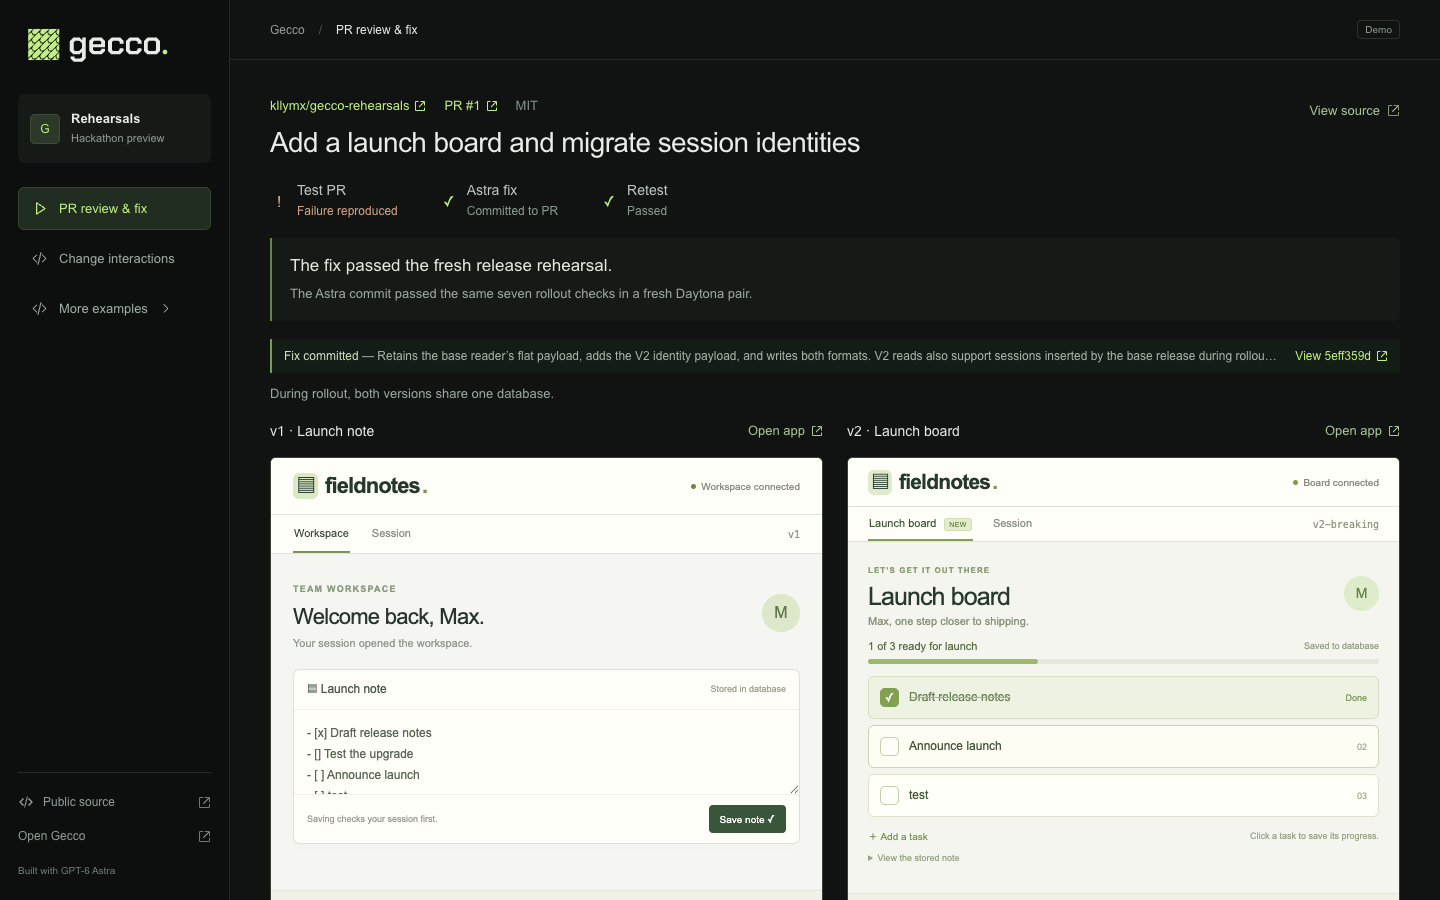
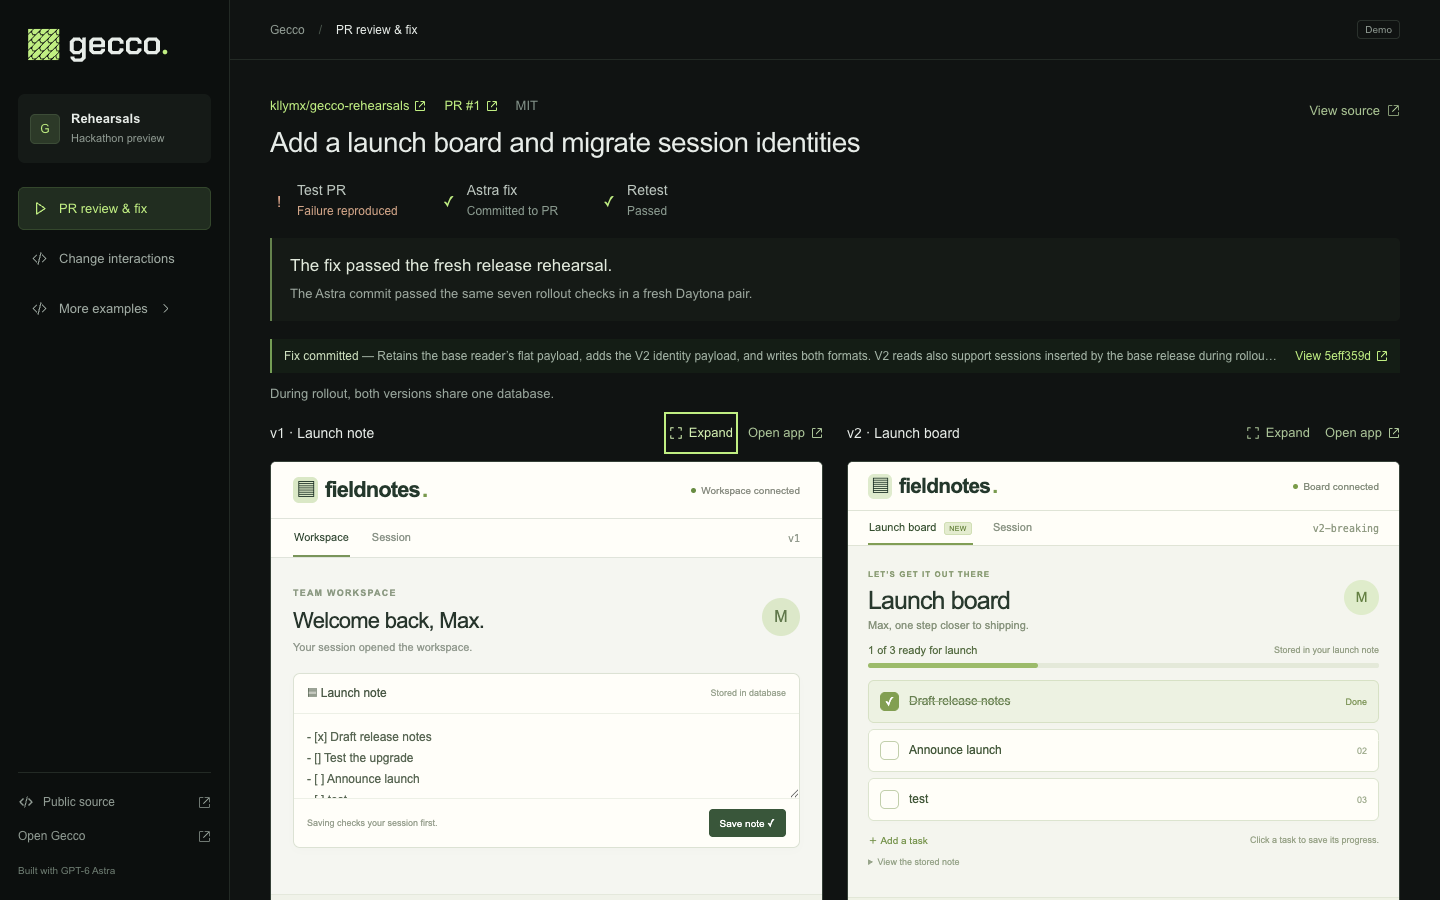
Prepare the one-minute hackathon walkthrough and document expanded previews

diff --git a/docs/HACKATHON-VIDEO.md b/docs/HACKATHON-VIDEO.md
@@ -1,0 +1,62 @@
+# One-minute Gecco hackathon video
+
+**Positioning: a feature can work alone and still break a release. Gecco reproduces that failure, gives Astra the evidence to repair it, and executes the exact fix again.**
+
+The visual is two real apps, but the distinctive capability is testing the transition between versions: an old reader and a new writer sharing migrated data during deployment. Astra turns the observed failure into a compatibility patch across the application and migrations. Independent execution determines whether that patch works.
+
+## Read this aloud — approximately 60 seconds
+
+> A new feature can pass its tests and still break a release. Gecco shows you why.
+>
+> This public pull request turns a launch note into an interactive board. Both versions work alone.
+>
+> But during deployment, old and new code share a database. This recorded original run shows the board working while existing users lose access.
+>
+> Astra gets the exact source and real failure. It reasons across the old reader, new writer, and migration, then generates a compatibility fix. Gecco validates it and commits it to the same public PR.
+>
+> That exact commit passed fifteen PostgreSQL checks, including rollback, then all seven checks in fresh Daytona sandboxes.
+>
+> These repaired apps are live. Tick a task here, and the old app reads the change.
+>
+> A public change, a reproduced failure, an Astra repair, and verified execution. The hackathon work is open source.
+
+## Screen choreography
+
+| Time | What to show |
+| --- | --- |
+| 0–8 seconds | The live demo with its public repo/PR links and completed three-step sequence visible. Say the opening sentence and point out the note → board change. |
+| 8–23 seconds | Switch to the **recorded original failure image**. Point at the working board and the old app's “Your workspace is out of reach.” Say “recorded original run.” |
+| 23–37 seconds | Switch to **Astra's commit** on the same public PR. Briefly show that the reader/writer and migrations changed. Keep the explanation about compatibility, not SQL syntax. |
+| 37–48 seconds | Return to the live demo. Point at “Committed to PR” and “Retest Passed.” Mention 15 native checks and seven fresh Daytona checks. |
+| 48–60 seconds | Toggle **Announce launch** in the board. Leave the old note editor unfocused; its normal polling shows the stored change. End with the public repo link visible. |
+
+Use just three tabs. Open them before recording:
+
+1. [Live demo](https://maxs-mac-mini.tail94229b.ts.net:10000/) — requires tailnet access.
+2. [Recorded original failure image](https://raw.githubusercontent.com/kllymx/gecco-rehearsals/main/docs/images/pr-1-original-failure.png).
+3. [Astra's exact repair commit](https://github.com/kllymx/gecco-rehearsals/commit/5eff359d6f0a5fac3d1d814d286539ffb29a1bb8).
+
+For this recording, use the completed run and its live repaired apps. Provisioning and generation took longer than one minute. PR #1 now contains the repair; running it again tests the repaired head. Keep the existing pair running. It is scheduled to expire at **5:49 p.m. New York time on September 10**.
+
+Expand is useful if the app or code is hard to read. For the final checkbox demonstration, keep the apps side by side so the persisted change is obvious. Save any unfinished note draft before refreshing the console to load the new Expand control. Expanding/restoring itself keeps the same iframe mounted.
+
+## What this demonstrates about Astra
+
+- It receives the actual old contract, proposed code and observed error, rather than a supplied compatible solution.
+- It produces a real three-file repair that preserves the new UI while restoring compatibility with old readers and retained data.
+- The orchestrator validates and publishes that patch, then creates fresh sandboxes at the exact commit. The model's explanation cannot set the pass result.
+
+Say “Gecco orchestrates; Astra reasons and writes the repair.” This example uses a fixed execution journey; Astra did not design the tests, drive the browser or provision the infrastructure. The current implementation supports the public Fieldnotes sample, not arbitrary repositories. The seven cloud checks cover rollout; the separate native validator also exercises rollback.
+
+Avoid claims that another review tool missed this deliberate example, or that passing these checks proves every deployment safe. The useful claim is concrete: **both versions passed alone; deployment broke old users; Astra's repair passed the same scenario.**
+
+## If asked about evidence or CI
+
+- [Public PR #1](https://github.com/kllymx/gecco-rehearsals/pull/1) remains open and unmerged.
+- [Complete live run evidence](evidence/pr-1-astra-repair-proof.json).
+- [Recorded live interaction](evidence/pr-1-repaired-interaction-proof.json).
+- [Independent GitHub validation of the exact repair](https://github.com/kllymx/gecco-rehearsals/actions/runs/34529977675) passed both TypeScript configurations and 15 native checks.
+
+The earlier generic PR CI retains a fixture-wiring failure: it combined a repaired reader with the bundled destructive migration. Main's fixture tests were corrected, and the separate exact-source check passed without changing Astra's commit. This is documented in the PR; do not claim those original failed CI runs became green.
+
+If live interaction is unavailable, use the [recorded verified view](images/pr-review-console.png), label it as recorded, and say “The recorded rerun verifies that both versions retain access after the repair.” Do not start a new provisioning cycle mid-take.

diff --git a/README.md b/README.md
@@ -9,6 +9,8 @@ Built as a public hackathon extension on September 10, 2026. This is a standalon
 of the Rehearsals concept, separate from the pre-existing private Gecco code-review application.
 The code in this repository is new hackathon work.
 
+[One-minute hackathon video script and screen sequence](docs/HACKATHON-VIDEO.md).
+
 ## Public PR review and repair
 
 Start with [public PR #1](https://github.com/kllymx/gecco-rehearsals/pull/1). Gecco runs its exact
@@ -37,6 +39,9 @@ The same repair also passed [independent exact-commit validation on GitHub](http
 Fieldnotes, the sample workspace app in this public repository. Each sandbox gets a real source
 checkout, installed dependencies, a Node HTTP server, its own filesystem and native PostgreSQL.
 The embedded previews load the applications directly from separate Daytona origins.
+Use **Expand** on either pane for a larger app view, then **Back to comparison** to return.
+The same iframe stays mounted, preserving its draft and scroll state; browser fullscreen is used
+where supported, with an expanded viewport as a fallback.
 
 The change turns a plain launch note into an interactive launch board. Gecco first tests the old
 and proposed versions with independent databases, then uses the proposed app to check **Test the

diff --git a/docs/PR-REPAIR.md b/docs/PR-REPAIR.md
@@ -158,3 +158,9 @@ passed both TypeScript configurations and all 15 native checks for unchanged com
 The clean trusted harness was `5eaeee1`; every proposed source digest matched the live Daytona
 acceptance. The [preserved GitHub receipt](evidence/pr-1-github-validation-proof.json) includes both
 commit identities and the individual results.
+
+The shared preview component supports expanding either live app and returning to comparison
+without replacing its iframe. Browser QA confirmed both original iframe nodes and URLs survived
+both transitions, with zero iframe load events. The viewport fallback, return button, Escape from
+the parent controls, focus restoration and background interaction blocking were verified at
+1440 × 900. Native fullscreen is requested when the browser permits it.
